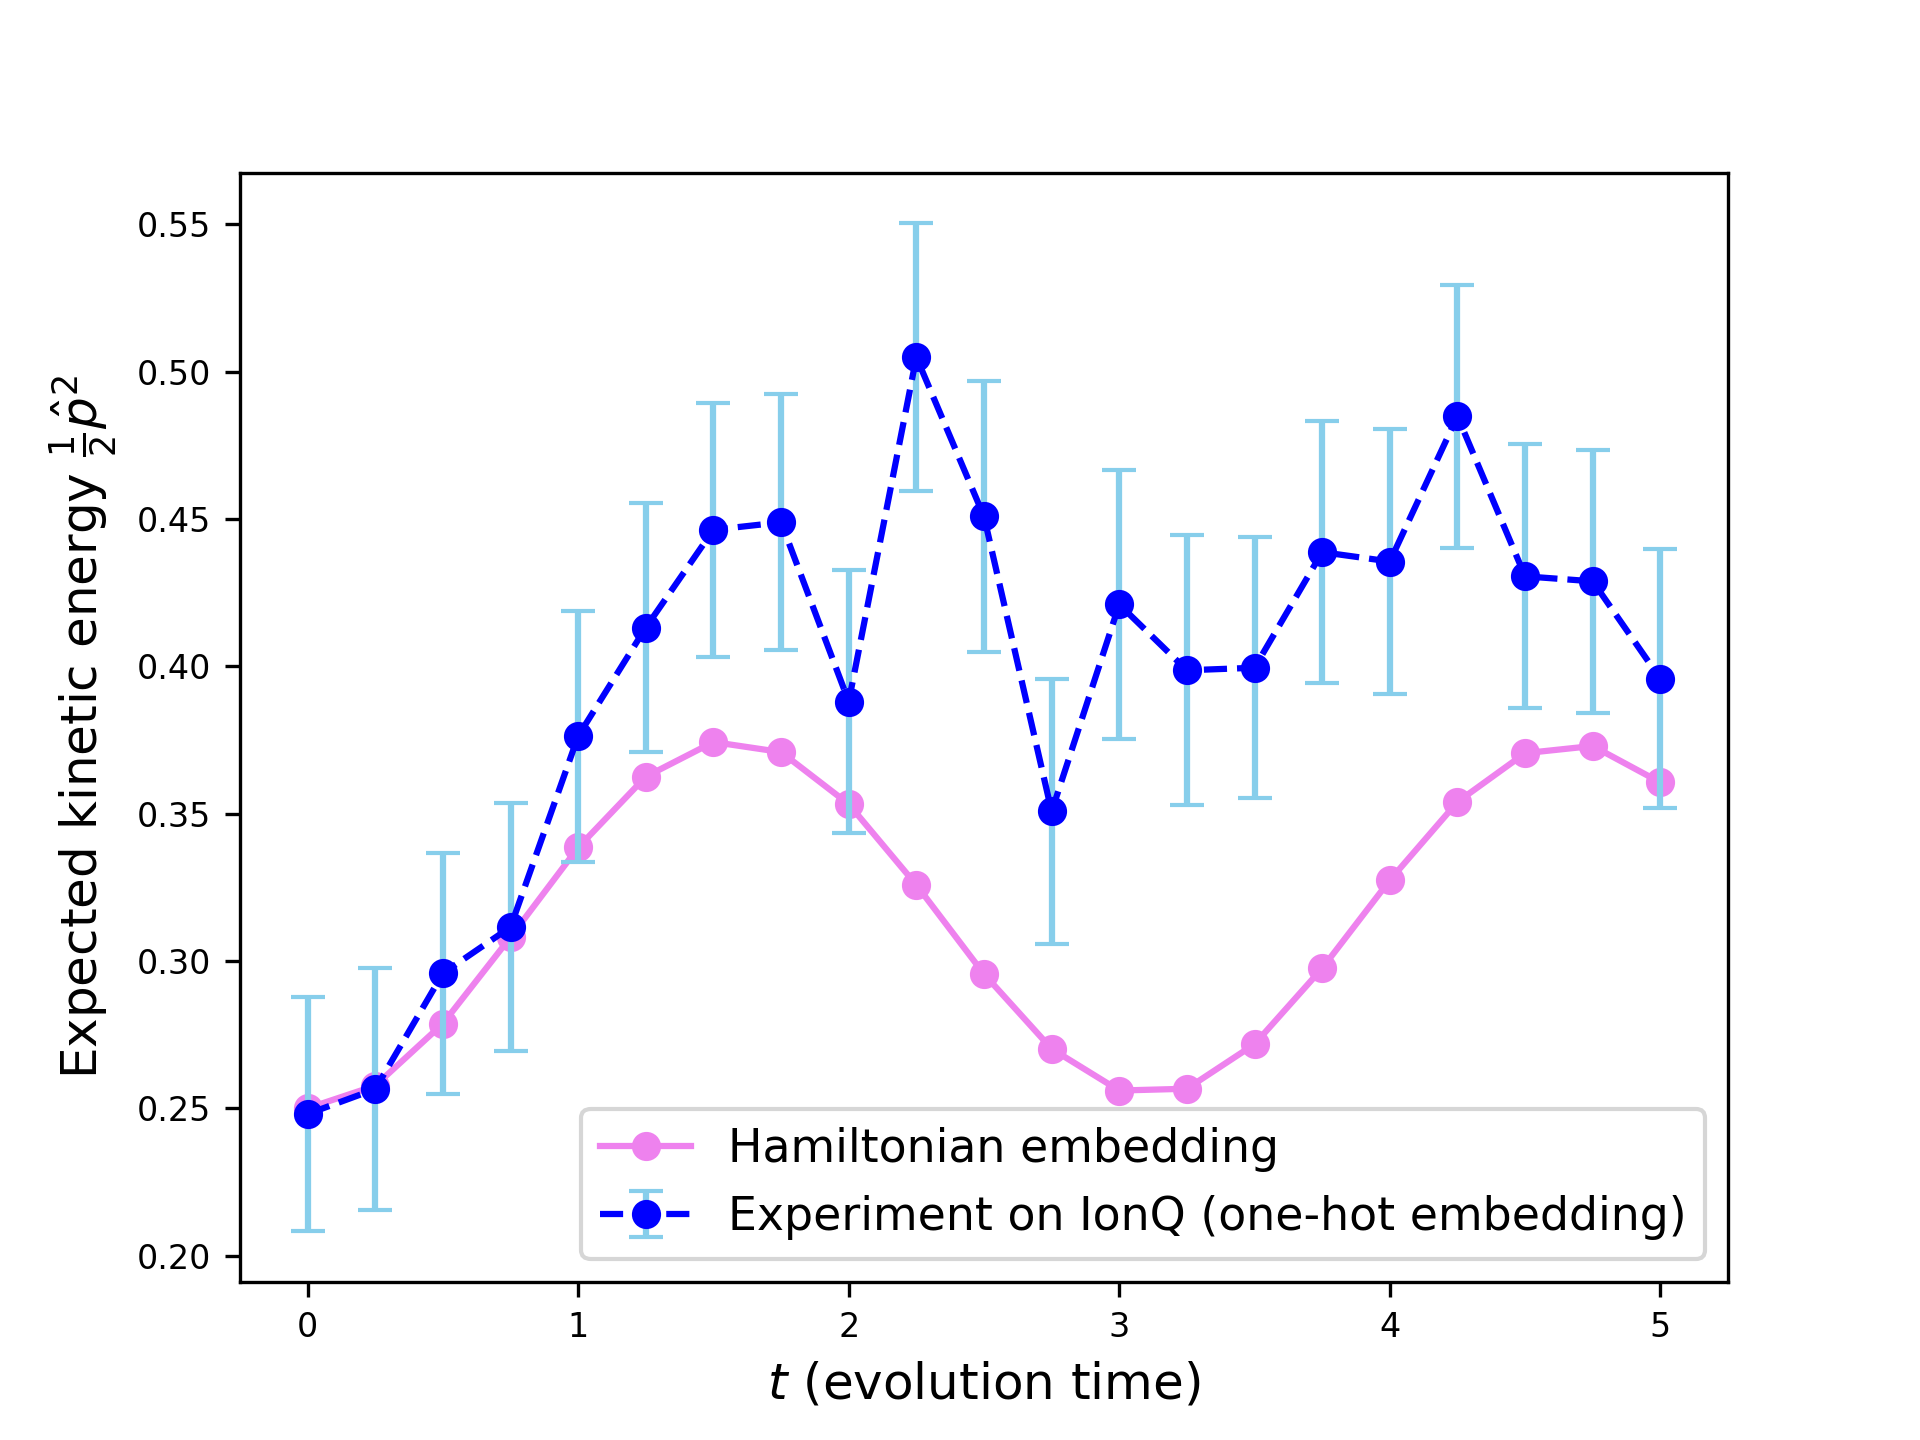
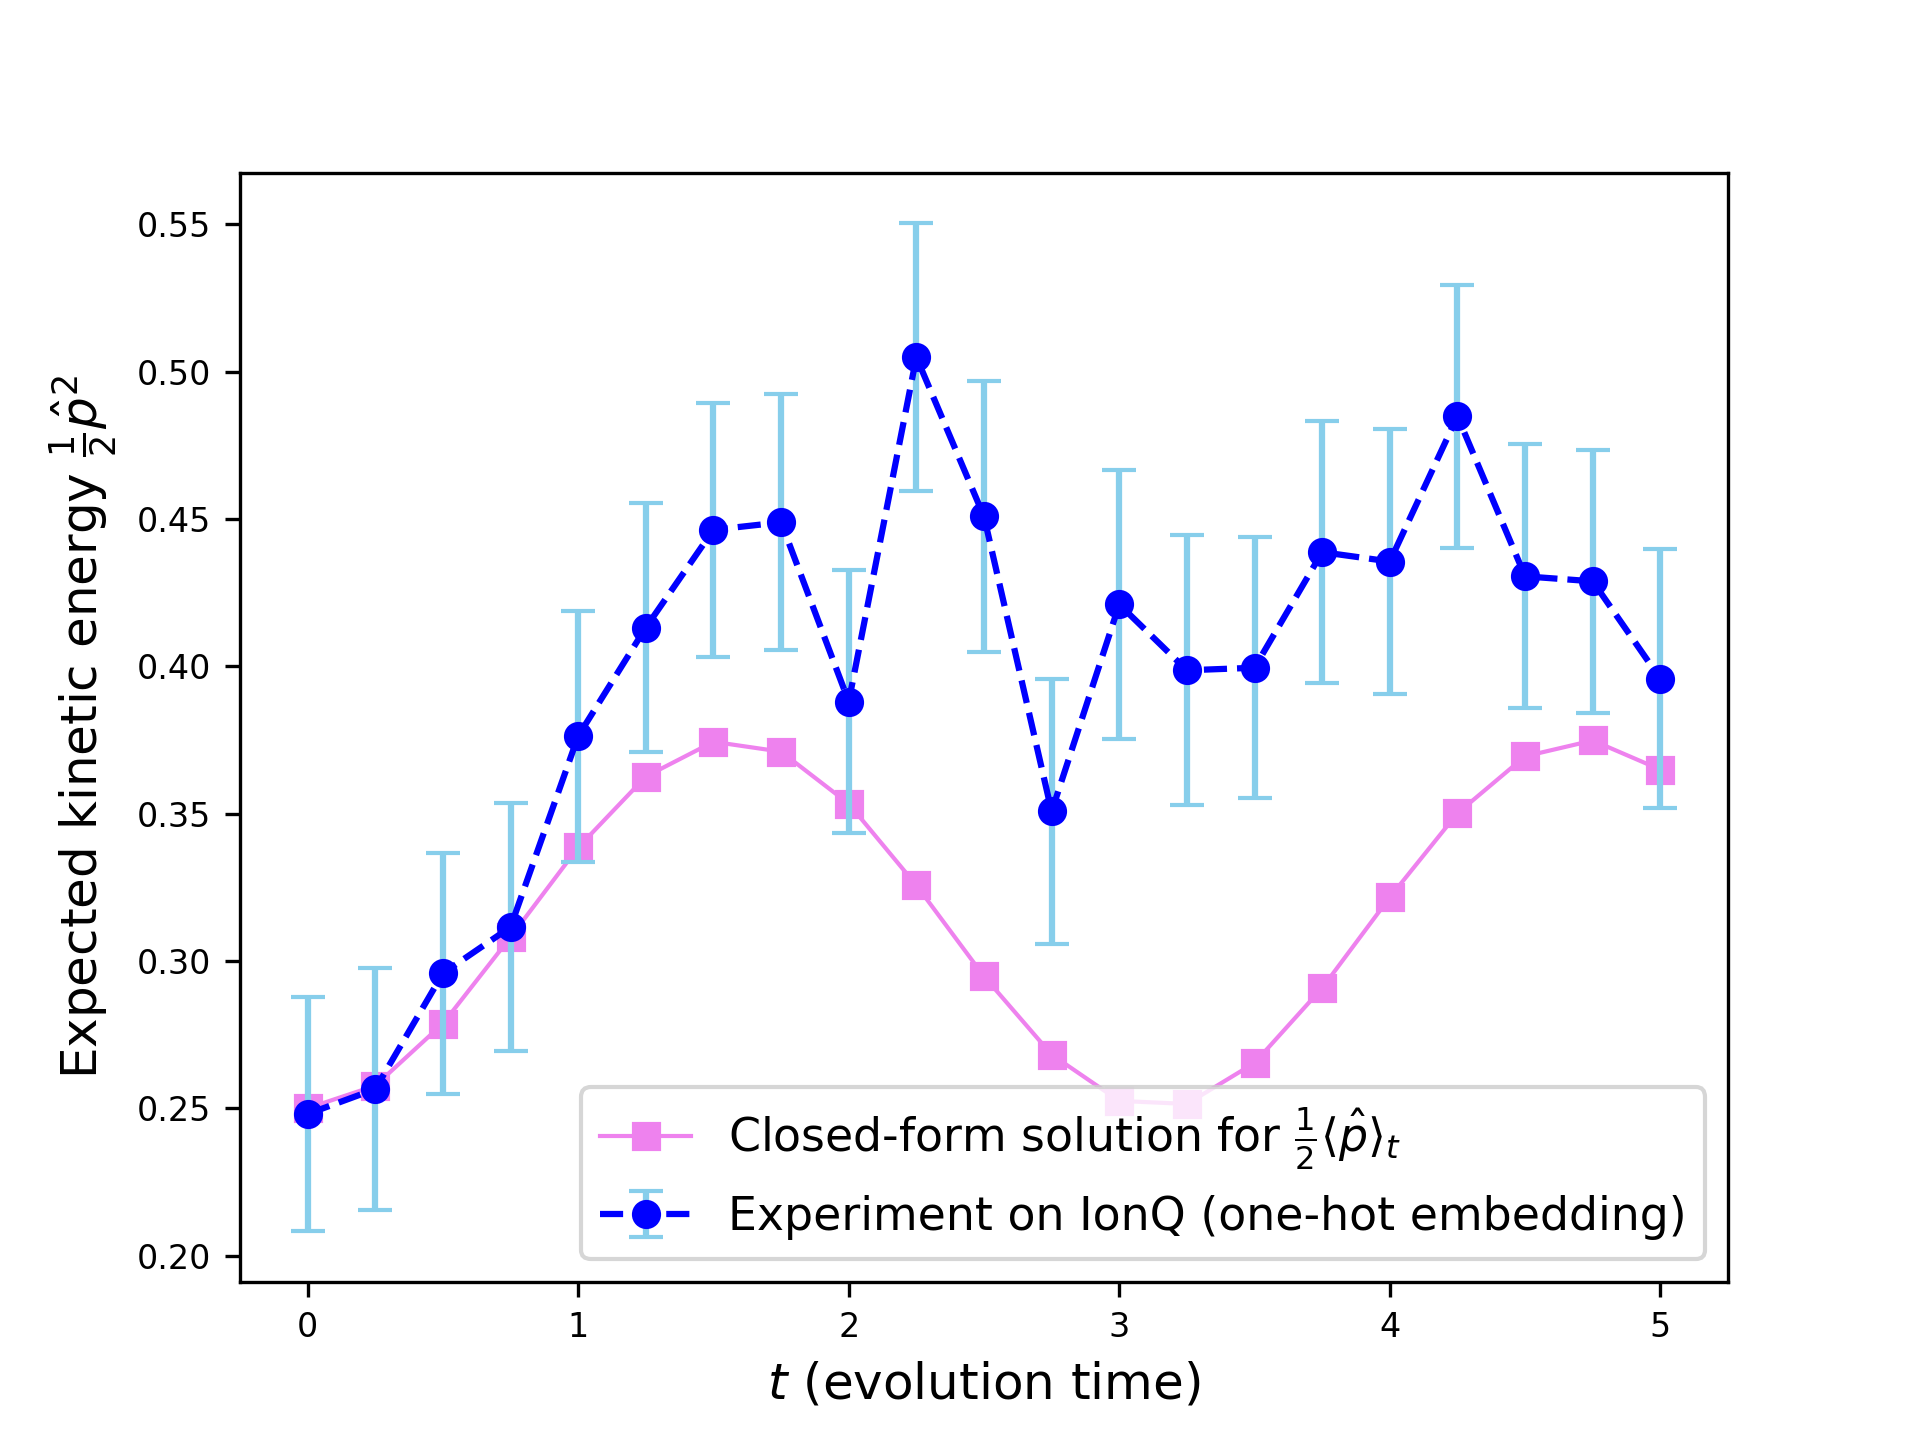
use analytical solution

Changed region(s): [[0.3125, 0.5312, 0.9062, 0.8125], [0.8125, 0.5, 0.875, 0.5625], [0.375, 0.5, 0.4062, 0.5312]]

diff --git a/real_space_sim/IonQ/plot_ionq_kinetic_energy.py b/real_space_sim/IonQ/plot_ionq_kinetic_energy.py
@@ -15,14 +15,15 @@ a = 1
 b = -1/2
 num_time_points = 21
 t_vals = np.linspace(0, T, num_time_points)
+kinetic_energy_analytical = a/4 - (0.5 * a * expected_position_analytical ** 2 + b * expected_position_analytical)
 
 #fig = plt.figure(figsize=(100/25.4, 100/25.4), dpi=300)
 # figure setup
 # plt.rcParams['font.family'] = 'Helvetica'
 
 plt.figure()
-# plt.plot(t_vals, expected_position_analytical, '-s', color="violet", label="Closed-form solution: " + r"$<\hat{x}>_t = \frac{1}{2}(1 - \cos(t))$", linewidth=1)
-plt.plot(t_vals, ideal_data, '-o', color="violet", label="Hamiltonian embedding")
+plt.plot(t_vals, kinetic_energy_analytical, '-s', color="violet", label="Closed-form solution for " + r"$\frac{1}{2}\langle\hat{p}\rangle_t$", linewidth=1)
+# plt.plot(t_vals, ideal_data, '-o', color="violet", label="Hamiltonian embedding")
 # plt.plot(t_vals, ideal_data, 'ro', label="Numerical simulation (5-level subsystem)", markersize=5)
 plt.errorbar(t_vals, ionq_data, ionq_err, fmt='--o', color='blue', ecolor='skyblue', label="Experiment on IonQ (one-hot embedding)", capsize=4)
 plt.ylabel(r"Expected kinetic energy $\frac{1}{2}\hat{p}^2$", fontsize=12)
